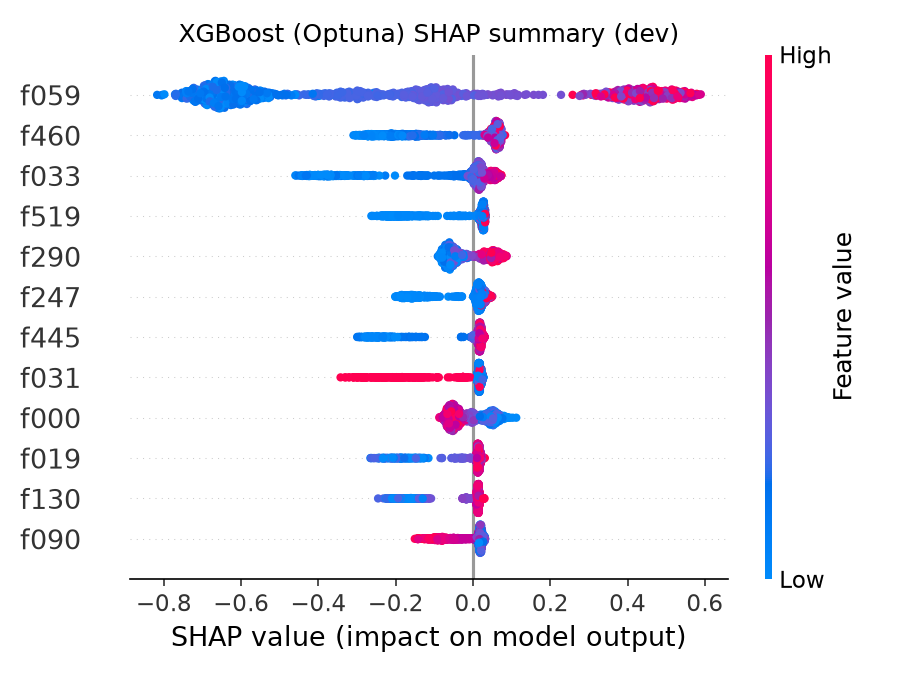
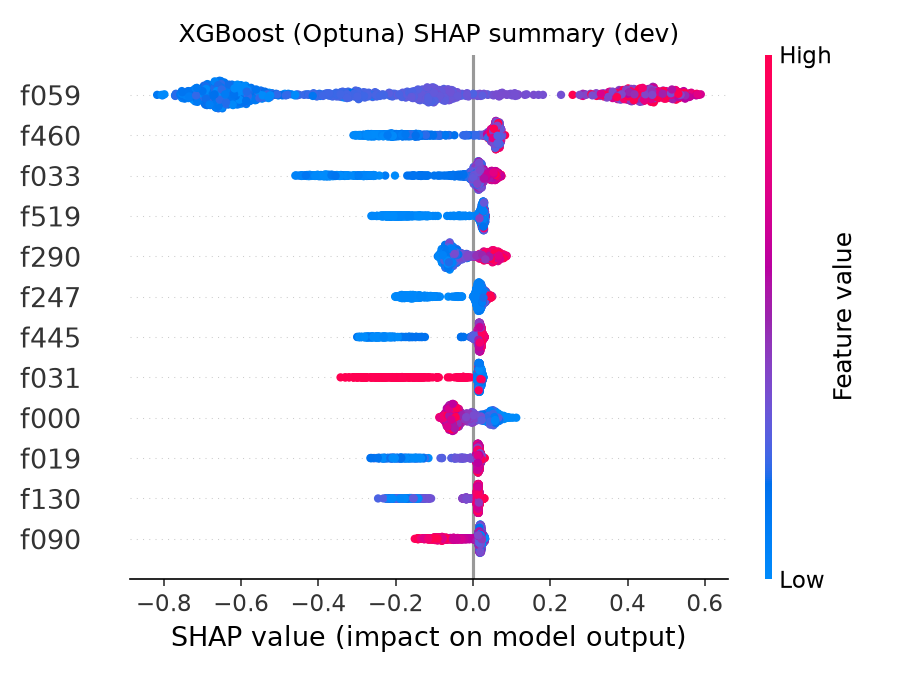
06장 Notebook: Platt 보정 코드를 본문과 일치시킴

diff --git a/01-yield-risk/notebooks/06_secom_threshold_shap.py b/01-yield-risk/notebooks/06_secom_threshold_shap.py
@@ -169,12 +169,17 @@ calib.round(4)
 
 # %%
 # Platt 보정: OOF 예측으로 로지스틱 보정기를 학습해 평가 데이터 확률에 적용
+def logit(p):
+    p = np.clip(p, 1e-6, 1 - 1e-6)
+    return np.log(p / (1 - p)).reshape(-1, 1)
+
+
 platt_rows = []
 for name, (_, yt, pt, _) in oof.items():
-    cal = LogisticRegression().fit(np.log(pt / (1 - pt + 1e-12) + 1e-12).reshape(-1, 1), yt)
+    cal = LogisticRegression().fit(logit(pt), yt)   # OOF로 보정기 학습
 
     def calibrate(p, cal=cal):
-        return cal.predict_proba(np.log(p / (1 - p + 1e-12) + 1e-12).reshape(-1, 1))[:, 1]
+        return cal.predict_proba(logit(p))[:, 1]
 
     pt_test = test_p[name]
     platt_rows.append({
